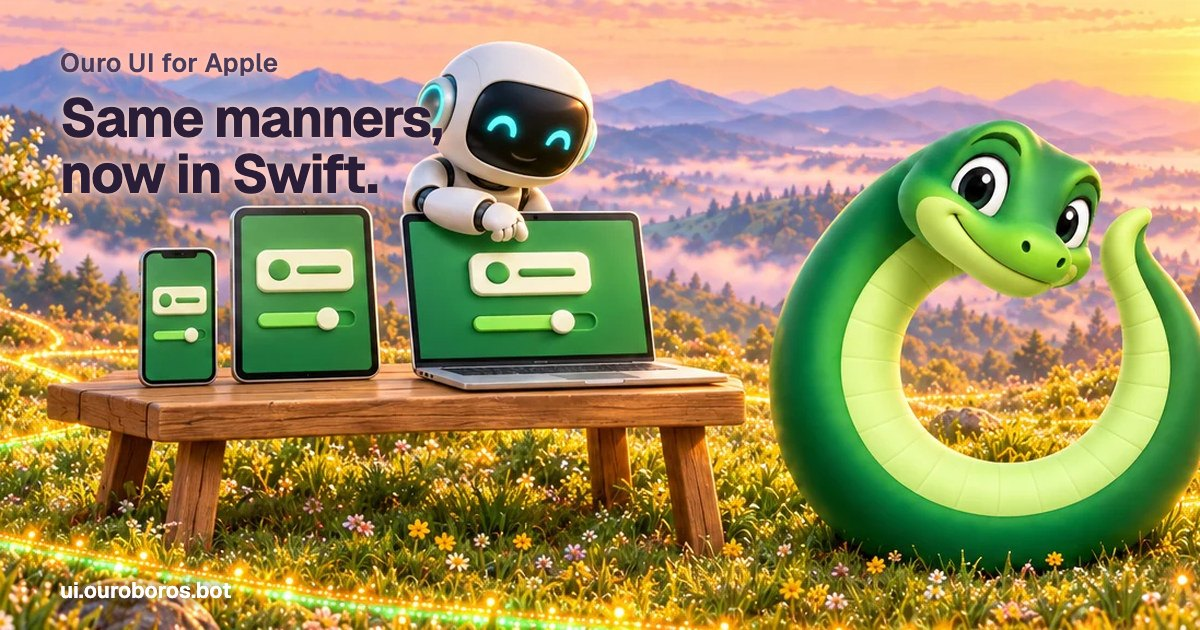
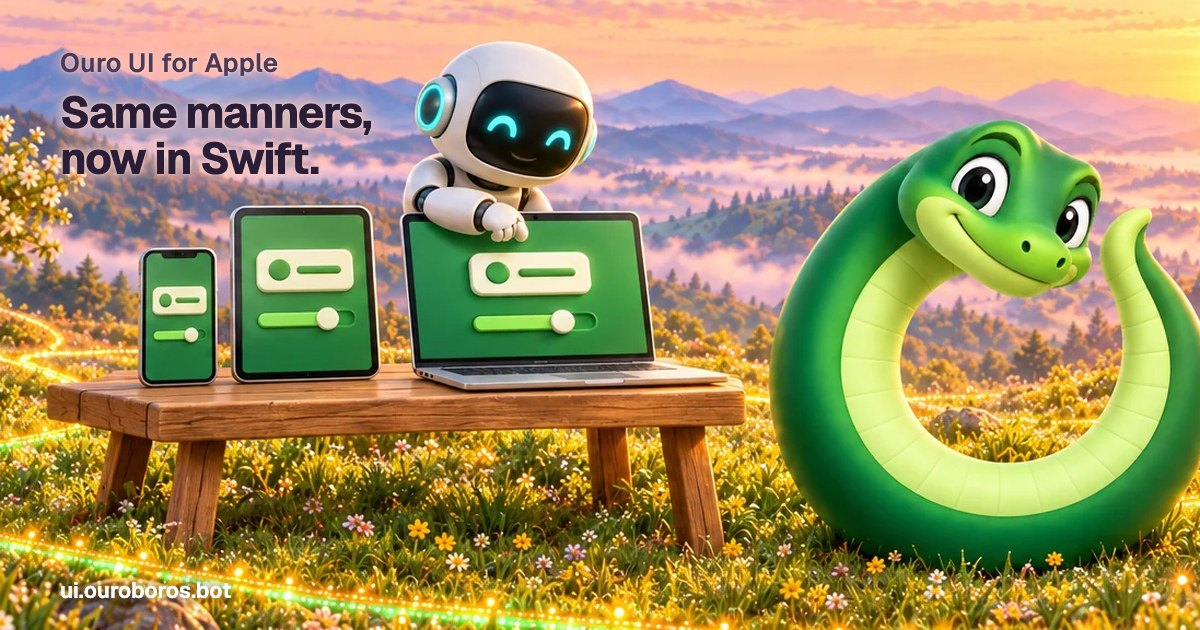
Site: a skip link first on every page, link-preview words clear of the drawings, and the phone menu opens on the Ouro family

Changed region(s): [[0.0308, 0.1508, 0.37, 0.3317]]

diff --git a/site/src/storybook.ts b/site/src/storybook.ts
@@ -100,6 +100,13 @@ export interface Card {
   side: "left" | "right";
   /** How wide the words may run, in pixels of the 1200px card: no further than the clear sky. */
   width?: number;
+  /** The title's size in pixels, where the default would run the words into a drawn figure. */
+  size?: number;
+  /**
+   * Which stretch of the wide 1536px header to show, left to right, when the og crop cuts a figure off: it is drawn
+   * across the card's width under a band of the scene's own sky, which meets it on a hard edge.
+   */
+  crop?: { from: number; to: number };
 }
 
 const APPLE = "Ouro UI for Apple";
@@ -108,8 +115,8 @@ const APPLE = "Ouro UI for Apple";
 export const CARDS: Record<string, Card> = {
   "/": { file: "home.jpg", scene: "ouro-hx", kicker: "Ouro UI", title: "Feels right to the people using it. Obvious to the agents building it.", side: "right" },
   "/nautilus/": { file: "nautilus.jpg", scene: "ouroboros-skills", kicker: "A story in chapters", title: "The Nautilus", side: "right" },
-  "/ax/": { file: "ax.jpg", scene: "playwright-focus-proof", kicker: "Ouro AX", title: "A morning with an agent", side: "left" },
-  "/apple/": { file: "apple.jpg", scene: "ouro-ui-apple", kicker: APPLE, title: "Same manners, now in Swift.", side: "left", width: 400 },
+  "/ax/": { file: "ax.jpg", scene: "playwright-focus-proof", kicker: "Ouro AX", title: "A morning with an agent", side: "right", width: 640, size: 46, crop: { from: 40, to: 1440 } },
+  "/apple/": { file: "apple.jpg", scene: "ouro-ui-apple", kicker: APPLE, title: "Same manners, now in Swift.", side: "left", width: 330, size: 44 },
   "/apple/hx/": { file: "apple-hx.jpg", scene: "ouro-ui-apple", kicker: APPLE, title: "Ouro HX for Apple", side: "left", width: 400 },
   "/apple/feel/": { file: "apple-feel.jpg", scene: "ouro-ui-apple", kicker: APPLE, title: "Ouro Feel", side: "left", width: 400 },
   "/apple/ax/": { file: "apple-ax.jpg", scene: "ouro-ui-apple", kicker: APPLE, title: "Ouro AX for Apple", side: "left", width: 400 },
@@ -124,6 +131,8 @@ export const CARDS: Record<string, Card> = {
       verify: { testExists: "site/src/site.test.tsx::docs > has a page for every registry item at docs/<name>" },
     }),
     side: "left",
+    width: 860,
+    size: 40,
   },
 };
 
@@ -134,7 +143,7 @@ export function cardFor(path: string): Card {
 
 /** What a card shows, for its alt text: its words, then its scene. */
 export function cardAlt(card: Card): string {
-  return `${card.kicker}: ${card.title} ${SCENES[card.scene].alt}`;
+  return `${card.kicker}: ${card.title}${/[.!?]$/.test(card.title) ? "" : "."} ${SCENES[card.scene].alt}`;
 }
 
 /** The srcsets a scene's picture offers: the phone crop, and the wide scene, each in AVIF and WebP. */

diff --git a/site/src/voyage/site-menu.tsx b/site/src/voyage/site-menu.tsx
@@ -209,6 +209,7 @@ export function SiteMenu({ page, more }: { page: string; more?: Readonly<Record<
   });
   return (
     <>
+      <FamilyLinks />
       <ol ref={list} className="m-0 grid list-none gap-2 p-0">
         {SITE_SECTIONS.map((section, index) => {
           const here = section.href === current;
@@ -247,18 +248,20 @@ export function SiteMenu({ page, more }: { page: string; more?: Readonly<Record<
           );
         })}
       </ol>
-      <FamilyLinks />
     </>
   );
 }
 
-/** The Ouro family's sites, as the family bar lists them, with this one marked: on a phone, the menu is where they are. */
+/**
+ * The Ouro family's sites, as the family bar lists them, with this one marked and the others marked as leaving the site:
+ * first in the menu below 640px, where the bar is hidden, and gone from 640px up, where the bar shows them.
+ */
 function FamilyLinks(): JSX.Element {
   const id = useId();
   return (
-    <div data-site-menu-family="" className="mt-4 grid gap-0.5 border-0 border-t border-solid border-border pt-3">
+    <div data-site-menu-family="" className="mb-4 grid gap-0.5 border-0 border-b border-solid border-border pb-3 sm:hidden">
       <h2 id={id} className="m-0 px-3 py-1 text-xs leading-4 font-medium tracking-[0.08em] text-muted-foreground uppercase">
-        Sites
+        Ouro family
       </h2>
       <ul aria-labelledby={id} className="m-0 grid list-none gap-0.5 p-0">
         {FAMILY.map((site) => {
@@ -270,7 +273,14 @@ function FamilyLinks(): JSX.Element {
                 aria-current={here ? "true" : undefined}
                 className={cn(row, "py-2 text-[0.9375rem] leading-5 text-muted-foreground aria-[current=true]:font-semibold aria-[current=true]:text-foreground")}
               >
-                <span>{site.label}</span>
+                <span>
+                  {site.label}
+                  {!here && (
+                    <span aria-hidden="true" className="ms-1 text-muted-foreground">
+                      ↗
+                    </span>
+                  )}
+                </span>
                 {here && <Here />}
               </a>
             </li>

diff --git a/site/e2e/site-menu.spec.ts b/site/e2e/site-menu.spec.ts
@@ -132,9 +132,12 @@ for (const { path, navs } of PAGES) {
     // The page you are on is marked, once.
     await expect(sheet(page).locator('[aria-current="page"]')).toHaveCount(1);
     await expect(sheet(page).locator('[aria-current="page"]')).toBeInViewport();
-    // The family's sites, under their heading in the menu rather than a landmark of their own, with this one marked.
-    await expect(sheet(page).getByRole("heading", { name: "Sites", exact: true })).toHaveCount(1);
-    await expect(sheet(page).getByRole("list", { name: "Sites", exact: true }).getByRole("link")).toHaveText(family.links.map((site) => new RegExp(`^${site.label}`)));
+    // The family's sites, under their heading in the menu rather than a landmark of their own, with this one marked and
+    // the others marked as leaving the site.
+    await expect(sheet(page).getByRole("heading", { name: "Ouro family", exact: true })).toHaveCount(1);
+    await expect(sheet(page).getByRole("list", { name: "Ouro family", exact: true }).getByRole("link")).toHaveText(
+      family.links.map((site) => new RegExp(`^${site.label}${site.id === "ouro-ui" ? "" : "↗"}`)),
+    );
     await expect(sheet(page).locator('[aria-current="true"]')).toHaveAttribute("href", family.links.find((site) => site.id === "ouro-ui")!.href);
     // Nothing sticks out of the window sideways.
     const box = (await sheet(page).boundingBox())!;

diff --git a/site/src/pages/voyage.tsx b/site/src/pages/voyage.tsx
@@ -113,18 +113,18 @@ export default function VoyagePage({ path }: { path: string }): JSX.Element {
             <VoyageHeader path={page === "/nautilus/" || page === "/ax/" ? page : isApple(page) ? "/apple/" : "/"} page={page} />
           </Suspense>
           {isApple(page) ? (
-            <main>
+            <main id="main">
               <ApplePage page={page} />
               <Popups />
             </main>
           ) : page === "/ax/" ? (
-            <main>
+            <main id="main">
               <AxHero exhibit={<AxExhibitIsland />} />
               <AxIsland />
               <Popups />
             </main>
           ) : nautilus ? (
-            <main>
+            <main id="main">
               <StoryOpening />
               <ChapterOneIsland />
               <ChapterTwoIsland />
@@ -132,7 +132,7 @@ export default function VoyagePage({ path }: { path: string }): JSX.Element {
               <Popups />
             </main>
           ) : (
-            <main>
+            <main id="main">
               <Hero onXray={openXray} />
               <TwoShips />
               <RepaintIsland />

diff --git a/site/e2e/voyage.spec.ts b/site/e2e/voyage.spec.ts
@@ -220,7 +220,11 @@ test("the header works from the keyboard: picker, mode, X-ray and the command pa
   await open(page);
   const trigger = page.locator("[data-site-theme-trigger]");
   await page.locator("body").focus();
-  // First the family bar's sites, in the family's order, then the site's own bar.
+  // First the skip link, then the family bar's sites, in the family's order, then the site's own bar.
+  await pressTab(page);
+  await expect(page.getByRole("link", { name: "Skip to main content", exact: true })).toBeFocused();
+  await expect(page.getByRole("link", { name: "Skip to main content", exact: true })).toHaveAttribute("href", "#main");
+  await expect(page.locator("main#main")).toHaveCount(1);
   for (const site of family.links) {
     await pressTab(page);
     await expect(page.getByRole("navigation", { name: "Sites", exact: true }).getByRole("link", { name: site.label, exact: true })).toBeFocused();

diff --git a/site/src/voyage/header.tsx b/site/src/voyage/header.tsx
@@ -1,6 +1,7 @@
 import { useCallback, useEffect, useRef, useState, useSyncExternalStore, type Dispatch, type JSX, type ReactNode, type SetStateAction } from "react";
 import { Button } from "@/registry/ouro/components/ouro/button/button";
 import { FamilyBar } from "@/registry/ouro/components/ouro/family-bar/family-bar";
+import { SkipLink } from "@/registry/ouro/components/ouro/skip-link/skip-link";
 import { claim } from "@/registry/ouro/lib/ouro/claims";
 import { Kbd } from "@/registry/ouro/components/ouro/kbd/kbd";
 import { Navbar } from "@/registry/ouro/components/ouro/navbar/navbar";
@@ -231,6 +232,7 @@ export function VoyageHeader({
   const [searching, setSearching] = useCommandShortcut("mod+k");
   return (
     <>
+      <SkipLink />
       <FamilyBar
         links={FAMILY}
         current={FAMILY_CURRENT}

diff --git a/site/src/voyage/layout.tsx b/site/src/voyage/layout.tsx
@@ -26,11 +26,7 @@ export function VoyageFooter(): JSX.Element {
         <div className="grid basis-full gap-6 pt-4 text-sm sm:grid-cols-[minmax(0,1fr)_auto] sm:items-end">
           <div className="grid gap-2">
             <p className="m-0">
-              Ouro UI: Ouro HX for people, Ouro AX for agents. Part of{" "}
-              <a href="https://ouroboros.bot/" className="text-foreground underline underline-offset-4">
-                Ouro
-              </a>
-              . MIT license.
+              Ouro UI: Ouro HX for people, Ouro AX for agents. Part of Ouro. MIT license.
             </p>
             <p className="m-0">
               {claim("The story is Jules Verne’s", { source: { spec: "https://www.gutenberg.org/ebooks/164" }, verify: { urlOk: "https://www.gutenberg.org/ebooks/164" } })}{" "}

diff --git a/site/src/site.test.tsx b/site/src/site.test.tsx
@@ -471,6 +471,11 @@ it("the Updating page's note has the tag filled in and no raw-file hint", () => 
 });
 
 describe("head tags", () => {
+  it("end a card's title with a full stop before its scene in the alt text, when the title has none", () => {
+    const tags = headTags({ path: "/ax/", title: "Ouro AX", description: "A morning with an agent" }, true).join("\n");
+    expect(tags).toContain('<meta property="og:image:alt" content="Ouro AX: A morning with an agent. A ');
+    expect(tags).not.toContain("agent..");
+  });
   it("give a component page Open Graph and Twitter tags with the docs card, a 1200x630 storybook scene", async () => {
     const route = { path: "/docs/sheet/", title: "Sheet · Ouro HX", description: 'Install "sheet" & go' };
     const tags = headTags(route, true);

diff --git a/site/src/components/layout.tsx b/site/src/components/layout.tsx
@@ -31,9 +31,7 @@ export function SiteFooter(): JSX.Element {
         <div className="flex basis-full flex-col gap-6 pt-4 sm:flex-row sm:items-center sm:justify-between">
           <p className="m-0 flex items-center gap-2 text-sm text-muted-foreground">
             <span>
-              Ouro UI: Ouro HX for people, Ouro AX for agents. Part of{" "}
-              <a href="https://ouroboros.bot/" className="text-foreground underline underline-offset-4">Ouro</a>.
-              {" "}MIT license.
+              Ouro UI: Ouro HX for people, Ouro AX for agents. Part of Ouro. MIT license.
             </span>
           </p>
           <nav aria-label="Footer">

diff --git a/site/src/voyage/voyage-sources.generated.css b/site/src/voyage/voyage-sources.generated.css
@@ -53,7 +53,6 @@
 @source not "../../../registry/ouro/components/ouro/share-button";
 @source not "../../../registry/ouro/components/ouro/sidebar/sidebar-layout.tsx";
 @source not "../../../registry/ouro/components/ouro/sidebar/stacked-layout.tsx";
-@source not "../../../registry/ouro/components/ouro/skip-link";
 @source not "../../../registry/ouro/components/ouro/snap-pip";
 @source not "../../../registry/ouro/components/ouro/spinner";
 @source not "../../../registry/ouro/components/ouro/stack";

diff --git a/site/src/components/docs-shell.tsx b/site/src/components/docs-shell.tsx
@@ -64,7 +64,7 @@ export function DocsShell({ current, opener, children }: { current: string; open
           </Suspense>
         </aside>
         <div className="min-w-0">
-          <main className={opener ? "max-w-3xl pt-6 lg:pt-8" : "max-w-3xl pt-8 lg:pt-10"}>
+          <main id="main" className={opener ? "max-w-3xl pt-6 lg:pt-8" : "max-w-3xl pt-8 lg:pt-10"}>
             {children}
             <Popups />
           </main>
